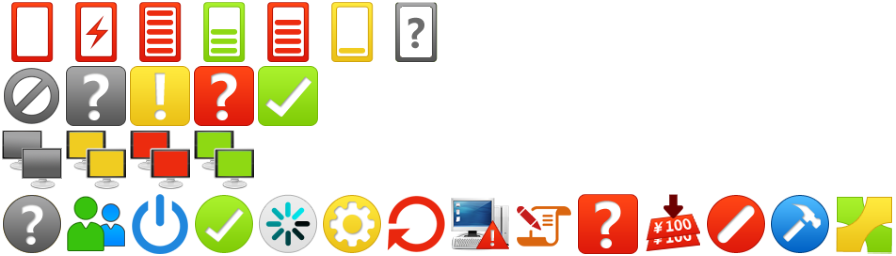
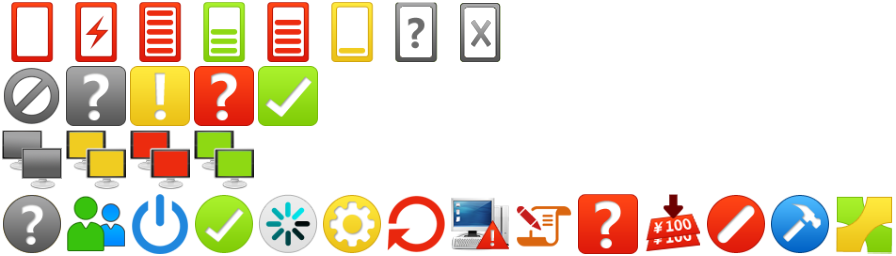
状态监控增加无钞箱

Changed region(s): [[0.5, 0.0, 0.5625, 0.25]]

diff --git a/fish-web-monitor/src/main/webapp/app/locale/en/monitor-locale-en.js b/fish-web-monitor/src/main/webapp/app/locale/en/monitor-locale-en.js
@@ -78,10 +78,10 @@ Ext.apply(EwayLocale,{
 				pin:'PIN',//EwayLocale.monitor.devMonitor.mod.pin 密码键盘
 				ttu:'TTU',//EwayLocale.monitor.devMonitor.mod.ttu 文本终端
 				isc:'ID Scanner',//EwayLocale.monitor.devMonitor.mod.isc 身份证扫描仪
-				icc:'Card Dispenser',//EwayLocale.monitor.devMonitor.mod.icc 发卡器
+				icc:'Dispenser Card',//EwayLocale.monitor.devMonitor.mod.icc 发卡器
 				fgp:'Finger Printer',//EwayLocale.monitor.devMonitor.mod.fgp 指纹仪
 				healthy:'Healthy',//EwayLocale.monitor.devMonitor.mod.healthy 模块正常
-				pbk:'Passbook Printer'//EwayLocale.monitor.devMonitor.mod.pbk 存折打印机
+				pbk:'Passbk Printer'//EwayLocale.monitor.devMonitor.mod.pbk 存折打印机
 			},
 			remote:{
 				control:'Remote Control',//EwayLocale.monitor.devMonitor.remote.control 远程控制
@@ -401,7 +401,7 @@ Ext.apply(EwayLocale,{
 			clickAddLoadFile:'Add the list of download on click',//单击添加到下载列表
 			removeFile:'Remove the file from list',//删除
 			mustIncludeOneFile:'Must exit File to downLoad.',
-			resetBackUp：'Click to backup the logs of this day.',
+			resetBackUp:'Click to backup the logs of this day.',
 			backupAppLogsSuccess:'backup atmc logs success.',
 			backupAppLogsFail:'backup atmc logs faile.',
 			backupLogSucList:' backup atmc logs list success.',

diff --git a/fish-web-monitor/src/main/webapp/resources/css/fish-monitor.css b/fish-web-monitor/src/main/webapp/resources/css/fish-monitor.css
@@ -695,7 +695,10 @@ pre.link{
 .monitor-div-box-Unknown {
 	background: url(../images/monitor/monitor.png) -192px 0px no-repeat !important;
 }
-
+/*钞箱状态-无设备*/
+.monitor-div-box-NoDevice {
+	background: url(../images/monitor/monitor.png) -224px 0px no-repeat !important;
+}
 
 /*网络状态-未知*/
 .monitor-div-net-Unknown {
@@ -830,7 +833,10 @@ pre.link{
 #images-view.maxicon .monitor-div-box-Unknown {
 	background: url(../images/monitor/max_monitor.png) -384px 0px no-repeat !important;
 }
-
+/*钞箱状态-无设备*/
+#images-view.maxicon .monitor-div-box-NoDevice {
+	background: url(../images/monitor/max_monitor.png) -448px 0px no-repeat !important;
+}
 
 /*网络状态-未知*/
 #images-view.maxicon .monitor-div-net-Unknown {
@@ -969,7 +975,10 @@ pre.link{
 .monitor_minicon.monitor-div-box-Unknown {
 	background: url(../images/monitor/min_monitor.png) -102px 0px no-repeat !important;
 }
-
+/*钞箱状态-无设备*/
+.monitor_minicon.monitor-div-box-NoDevice {
+	background: url(../images/monitor/min_monitor.png) -119px 0px no-repeat !important;
+}
 
 /*网络状态-未知*/
 .monitor_minicon.monitor-div-net-Unknown {

diff --git a/fish-web-monitor/src/main/webapp/app/view/monitor/device/DeviceInfoStatus.js b/fish-web-monitor/src/main/webapp/app/view/monitor/device/DeviceInfoStatus.js
@@ -163,6 +163,7 @@ Ext.define('Eway.view.monitor.device.DeviceInfoStatus', {
 					layout : 'column',
 					defaults : {
 						xtype : 'displayfield',
+						labelWidth : 100,
 						width : '25%'
 					},
 					items : [ {
